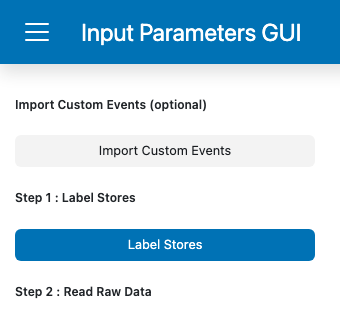
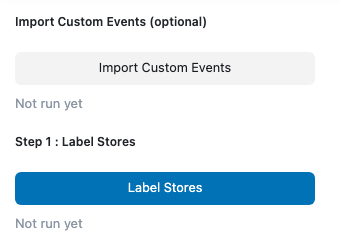
Retake the docs screenshots that show the sidebar

diff --git a/docs/tutorials/first_analysis.md b/docs/tutorials/first_analysis.md
@@ -148,7 +148,7 @@ You can close this Label Stores tab and return to the original homepage tab. Ope
 Click **Read Raw Data**. A progress bar appears in the sidebar directly below the button and fills as the work runs. That bar is the primary signal that the step is in progress.
 
 ```{image} ../_static/images/04_read_progress.png
-:alt: GuPPy homepage sidebar with the Read Raw Data progress bar partially filled
+:alt: GuPPy homepage sidebar with Read Raw Data running, its progress bar just appeared below the button
 :align: center
 ```
 

diff --git a/docs/how-to/export-to-nwb.md b/docs/how-to/export-to-nwb.md
@@ -56,7 +56,7 @@ Click **Input Metadata**. An Input Metadata tab opens beside the form, with a ta
 each selected session, named `<session> (<run>)`.
 
 ```{image} ../_static/images/export_to_nwb_button.png
-:alt: The bottom of the sidebar showing Step 6, Input Metadata, and Step 7, Export to NWB, with its progress bar, positioned below Step 5, Visualization
+:alt: The bottom of the sidebar showing Step 6, Input Metadata, and Step 7, Export to NWB, each with its status line, positioned below Step 5, Visualization
 :width: 50%
 ```
 
